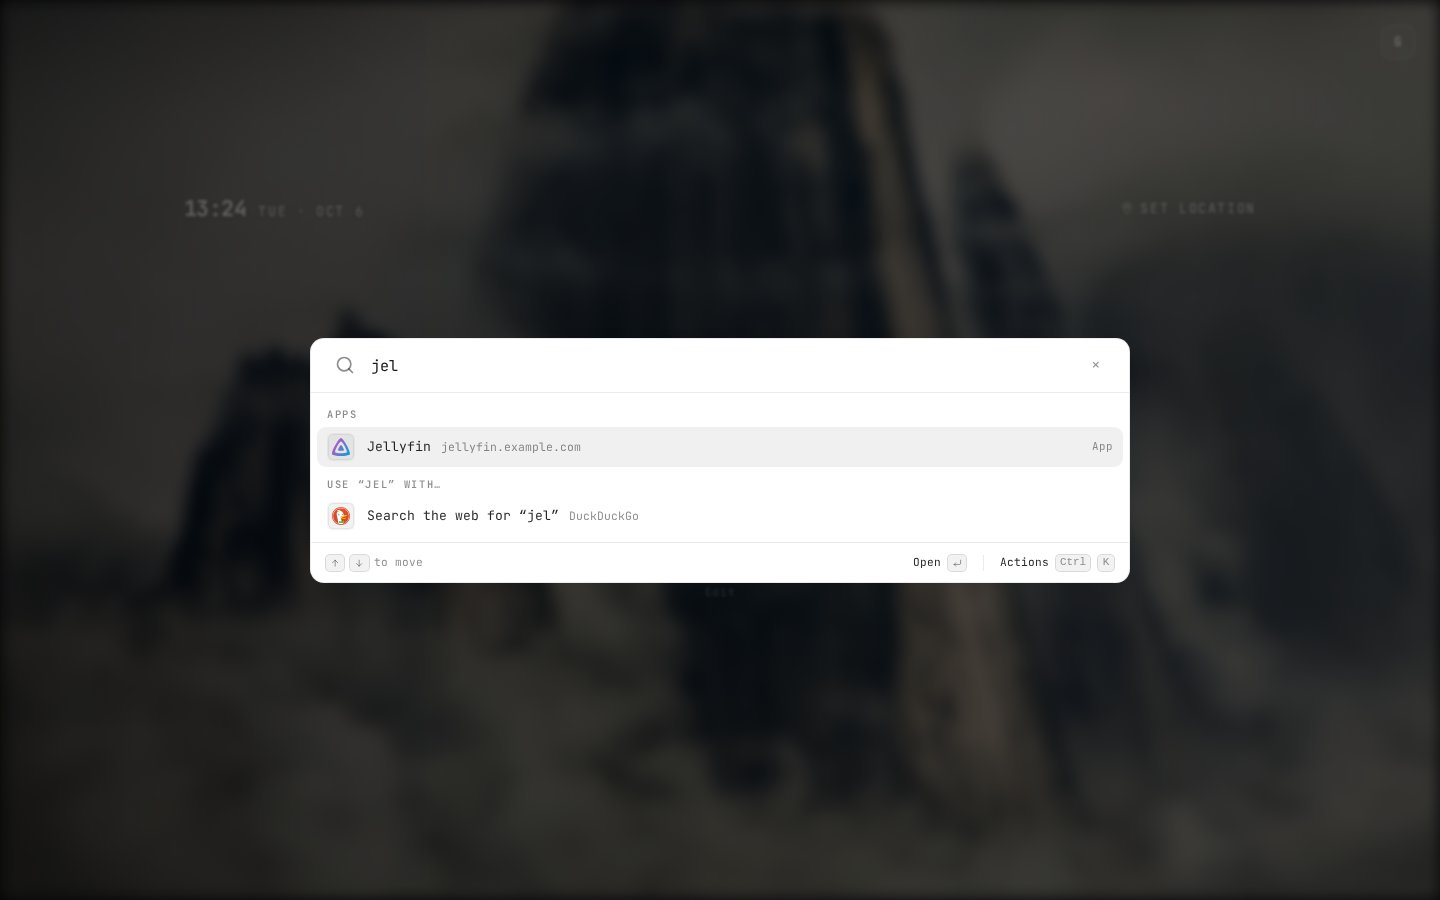
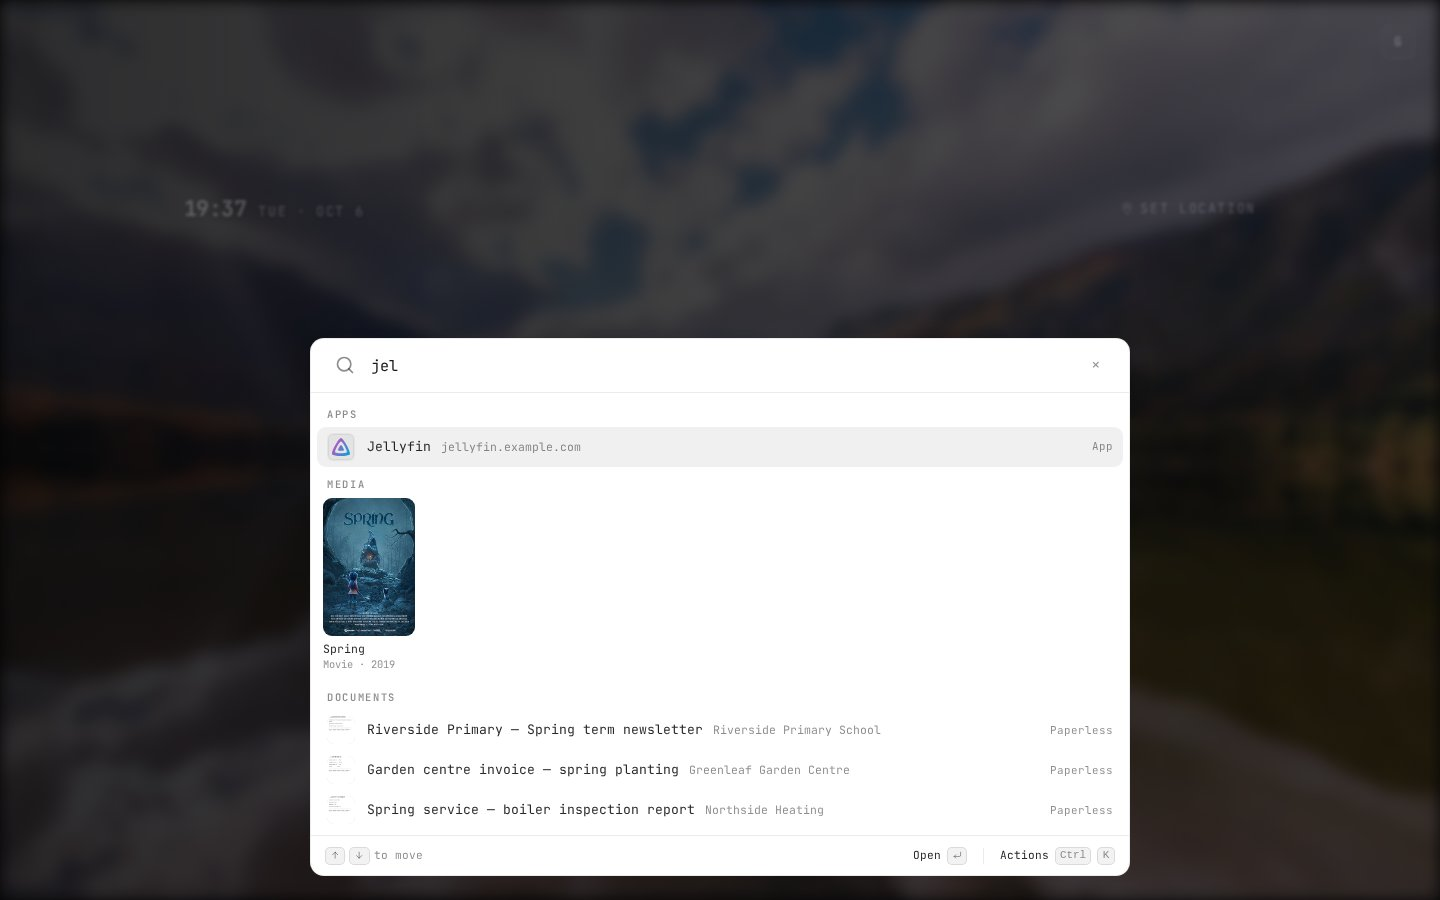
README: retake every screenshot with news off and CC0 imagery
The news ticker showed a live political headline, and the wallpaper and
photo row came from a wallpaper set with no license. All five shots are
retaken with news off, a CC0 wallpaper, and CC0 photos from Wikimedia
Commons:

- Clouds_mirrored_in_a_mountain_lake_(Unsplash).jpg (wallpaper)
- Spring_Tulips_(153795123).jpeg
- Tulip_Field_Tulips_Red_Holland_Nature_Flowers.jpg
- 20130429Malus_domestica6.jpg
- 20150423Malus_domestica4.jpg
- Bluebell_2026-04-24.jpg
- Daffodils,_2021-03-23,_Beechview,_01.jpg

The themes image now stacks light over dark, cropped to the search bar
and icons, so the two read at README width.

diff --git a/README.md b/README.md
@@ -23,7 +23,7 @@ Most self-hosted dashboards are built by one admin, for one admin. Holm is for t
 Search reaches inside the apps people have connected, with their own login: one query for "spring" finds a film in Jellyfin, documents in Paperless and photos in Immich.
 
 ![Launcher searching Jellyfin, Paperless and Immich at once](docs/screenshots/integrations.jpg)
-<sub>Mock data. <i>Spring</i> poster: Blender Studio, <a href="https://creativecommons.org/licenses/by/4.0/">CC BY 4.0</a>.</sub>
+<sub>Mock data. Photos and wallpapers in these screenshots are CC0 from Wikimedia Commons; the <i>Spring</i> poster is by Blender Studio, <a href="https://creativecommons.org/licenses/by/4.0/">CC BY 4.0</a>.</sub>
 
 Pick a light or dark theme, or let the wallpaper set the mood:
 
